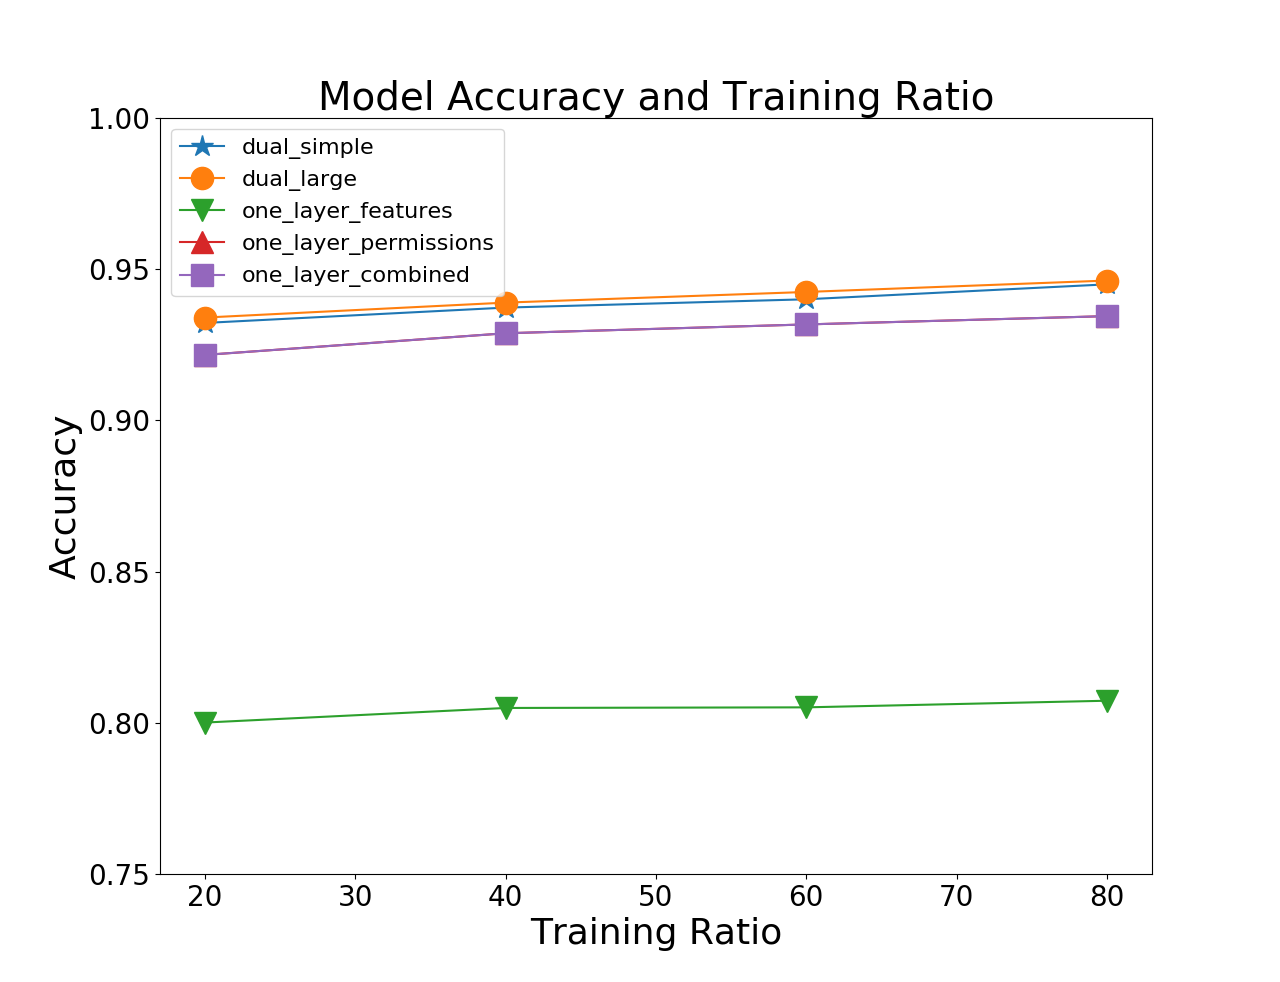
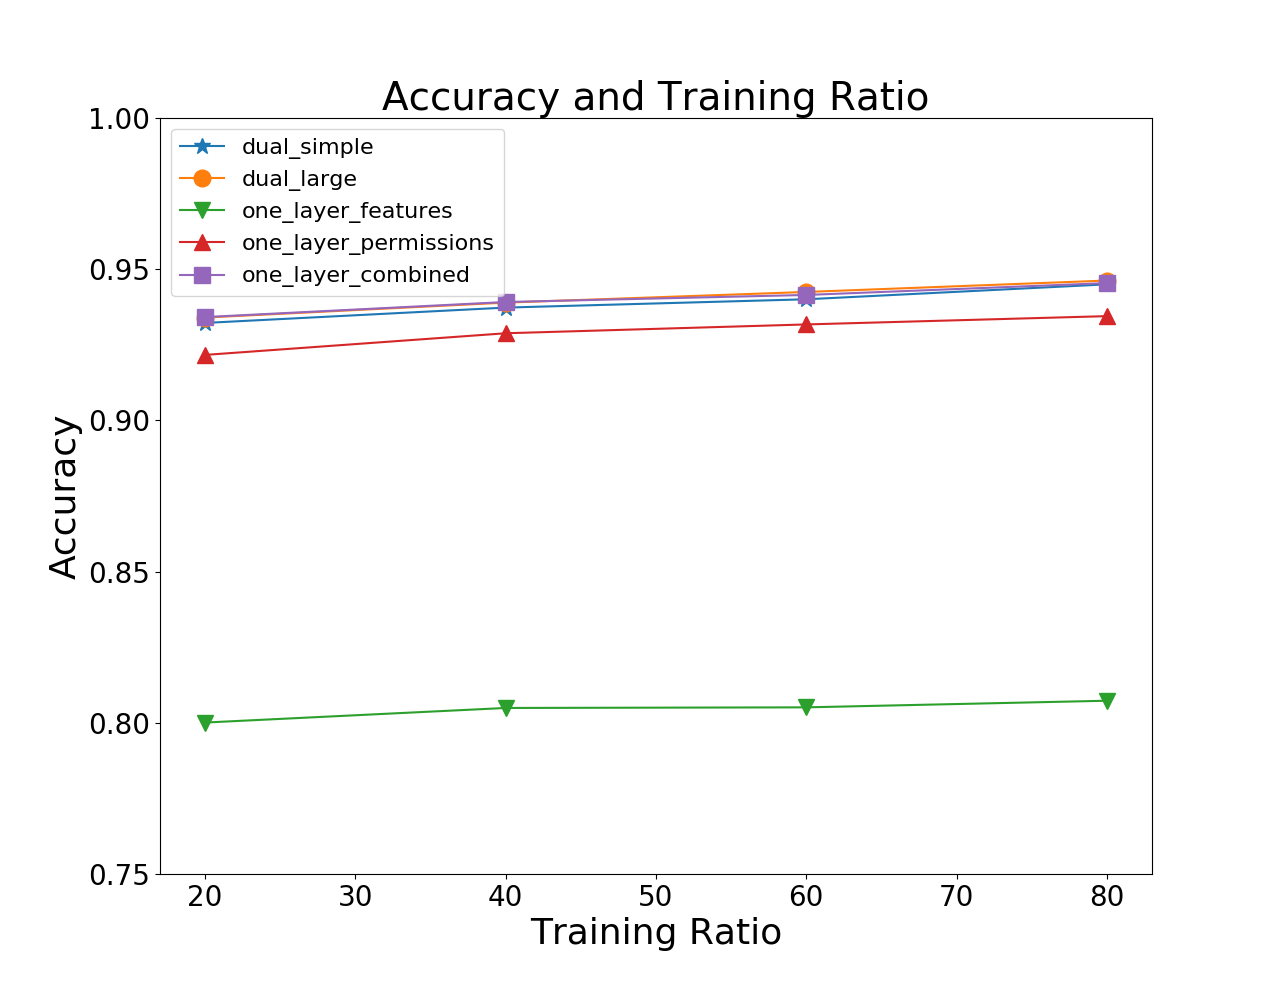
added new figures

diff --git a/Visualization/DualInput/dual_final_training_time.py b/Visualization/DualInput/dual_final_training_time.py
@@ -2,7 +2,6 @@ import pandas
 import os
 import matplotlib.pyplot as plt
 from matplotlib.lines import Line2D
-from matplotlib.font_manager import FontProperties
 from mpl_toolkits.mplot3d import axes3d
 from matplotlib import cm
 from pylab import meshgrid
@@ -29,41 +28,44 @@ def main():
     oneLayer_perm_df = pandas.read_csv(oneLayer_perm_in)
     oneLayer_comb_df = pandas.read_csv(oneLayer_comb_in)
 
-
     #dual_simple x and y
     ds_ratio = dual_simple_df.get("train_ratio")
-    ds_f1 = dual_simple_df.get("accuracy")
+    ds_tt = dual_simple_df.get("avg_train_time")
 
     #dual_large x and y
     dl_ratio = dual_large_df.get("train_ratio")
-    dl_f1 = dual_large_df.get("accuracy")
+    dl_tt = dual_large_df.get("avg_train_time")
 
     #oneLayer_feat x and y
     ol_feat_ratio = oneLayer_feat_df.get("train_ratio")
-    ol_feat_f1 = oneLayer_feat_df.get("accuracy")
+    ol_feat_tt = oneLayer_feat_df.get("avg_train_time")
 
     #oneLayer_perm x and y
     ol_perm_ratio = oneLayer_perm_df.get("train_ratio")
-    ol_perm_f1 = oneLayer_perm_df.get("accuracy")
+    ol_perm_tt = oneLayer_perm_df.get("avg_train_time")
 
     #oneLayer_comb x and y
     ol_comb_ratio = oneLayer_comb_df.get("train_ratio")
-    ol_comb_f1 = oneLayer_comb_df.get("accuracy")
+    ol_comb_tt = oneLayer_comb_df.get("avg_train_time")
 
     #create line for each optimizer
-    dual_simple = plt.plot(ds_ratio, ds_f1, marker='*', markersize=12, label='dual_simple')
-    dual_large = plt.plot(dl_ratio, dl_f1, marker='o', markersize=12, label='dual_large')
-    ol_feat = plt.plot(ol_feat_ratio, ol_feat_f1, marker='v', markersize=12, label='one_layer_features')
-    ol_perm = plt.plot(ol_perm_ratio, ol_perm_f1, marker='^', markersize=12, label='one_layer_permissions')
-    ol_comb = plt.plot(ol_comb_ratio, ol_comb_f1, marker='s', markersize=12, label='one_layer_combined')
+    dual_simple = plt.plot(ds_ratio, ds_tt, marker='*', markersize=12, label='dual_simple')
+    dual_large = plt.plot(dl_ratio, dl_tt, marker='o', markersize=12, label='dual_large')
+    ol_feat = plt.plot(ol_feat_ratio, ol_feat_tt, marker='v', markersize=12, label='one_layer_features')
+    ol_perm = plt.plot(ol_perm_ratio, ol_perm_tt, marker='^', markersize=12, label='one_layer_permissions')
+    ol_comb = plt.plot(ol_comb_ratio, ol_comb_tt, marker='s', markersize=12, label='one_layer_combined')
 
+    #adam = plt.plot(adam_neurons, adam_score, marker='v', markersize=16, label='adam')
+    #nadam = plt.plot(nadam_neurons, nadam_score, marker='^', markersize=16, label='nadam')
+    #RMSprop = plt.plot(RMS_neurons, RMS_score, marker='s', markersize=16, label='RMSprop')
+    #SGD = plt.plot(SGD_neurons, SGD_score, marker='p', markersize=16, label='SGD')
 
     #plot formatting
     plt.legend(loc='upper left', fontsize = 16)
-    plt.ylim([.75, 1])
-    plt.title('Accuracy and Training Ratio', fontsize=28)
-    plt.xlabel('Training Ratio', fontsize = 26)
-    plt.ylabel('Accuracy', fontsize = 26)
+    plt.ylim([0,2500])
+    plt.title('Average Time to Train', fontsize=28)
+    plt.xlabel('Training Ratio (%)', fontsize = 26)
+    plt.ylabel('Time (s)', fontsize = 26)
     plt.tick_params(labelsize=20)
     #plt.legend([adadelta, adamax, adam, RMSprop, SGD]) #['adadelta', 'adamax', 'adam','nadam', 'RMSprop,', 'SGD'])
 

diff --git a/Visualization/DualInput/dual_final_f1.py b/Visualization/DualInput/dual_final_f1.py
@@ -46,15 +46,15 @@ def main():
     ol_perm_f1 = oneLayer_perm_df.get("f1_score")
 
     #oneLayer_comb x and y
-    ol_comb_ratio = oneLayer_perm_df.get("train_ratio")
-    ol_comb_f1 = oneLayer_perm_df.get("f1_score")
+    ol_comb_ratio = oneLayer_comb_df.get("train_ratio")
+    ol_comb_f1 = oneLayer_comb_df.get("f1_score")
 
     #create line for each optimizer
-    dual_simple = plt.plot(ds_ratio, ds_f1, marker='*', markersize=16, label='dual_simple')
-    dual_large = plt.plot(dl_ratio, dl_f1, marker='o', markersize=16, label='dual_large')
-    ol_feat = plt.plot(ol_feat_ratio, ol_feat_f1, marker='v', markersize=16, label='one_layer_features')
-    ol_perm = plt.plot(ol_perm_ratio, ol_perm_f1, marker='^', markersize=16, label='one_layer_permissions')
-    ol_comb = plt.plot(ol_comb_ratio, ol_comb_f1, marker='s', markersize=16, label='one_layer_combined')
+    dual_simple = plt.plot(ds_ratio, ds_f1, marker='*', markersize=12, label='dual_simple')
+    dual_large = plt.plot(dl_ratio, dl_f1, marker='o', markersize=12, label='dual_large')
+    ol_feat = plt.plot(ol_feat_ratio, ol_feat_f1, marker='v', markersize=12, label='one_layer_features')
+    ol_perm = plt.plot(ol_perm_ratio, ol_perm_f1, marker='^', markersize=12, label='one_layer_permissions')
+    ol_comb = plt.plot(ol_comb_ratio, ol_comb_f1, marker='s', markersize=12, label='one_layer_combined')
 
     #adam = plt.plot(adam_neurons, adam_score, marker='v', markersize=16, label='adam')
     #nadam = plt.plot(nadam_neurons, nadam_score, marker='^', markersize=16, label='nadam')
@@ -64,7 +64,7 @@ def main():
     #plot formatting
     plt.legend(loc='upper left', fontsize = 16)
     plt.ylim([.65,1])
-    plt.title('Model F1 Score and Training Ratio', fontsize=28)
+    plt.title('F1 Score and Training Ratio', fontsize=28)
     plt.xlabel('Training Ratio', fontsize = 26)
     plt.ylabel('F1 Score', fontsize = 26)
     plt.tick_params(labelsize=20)
